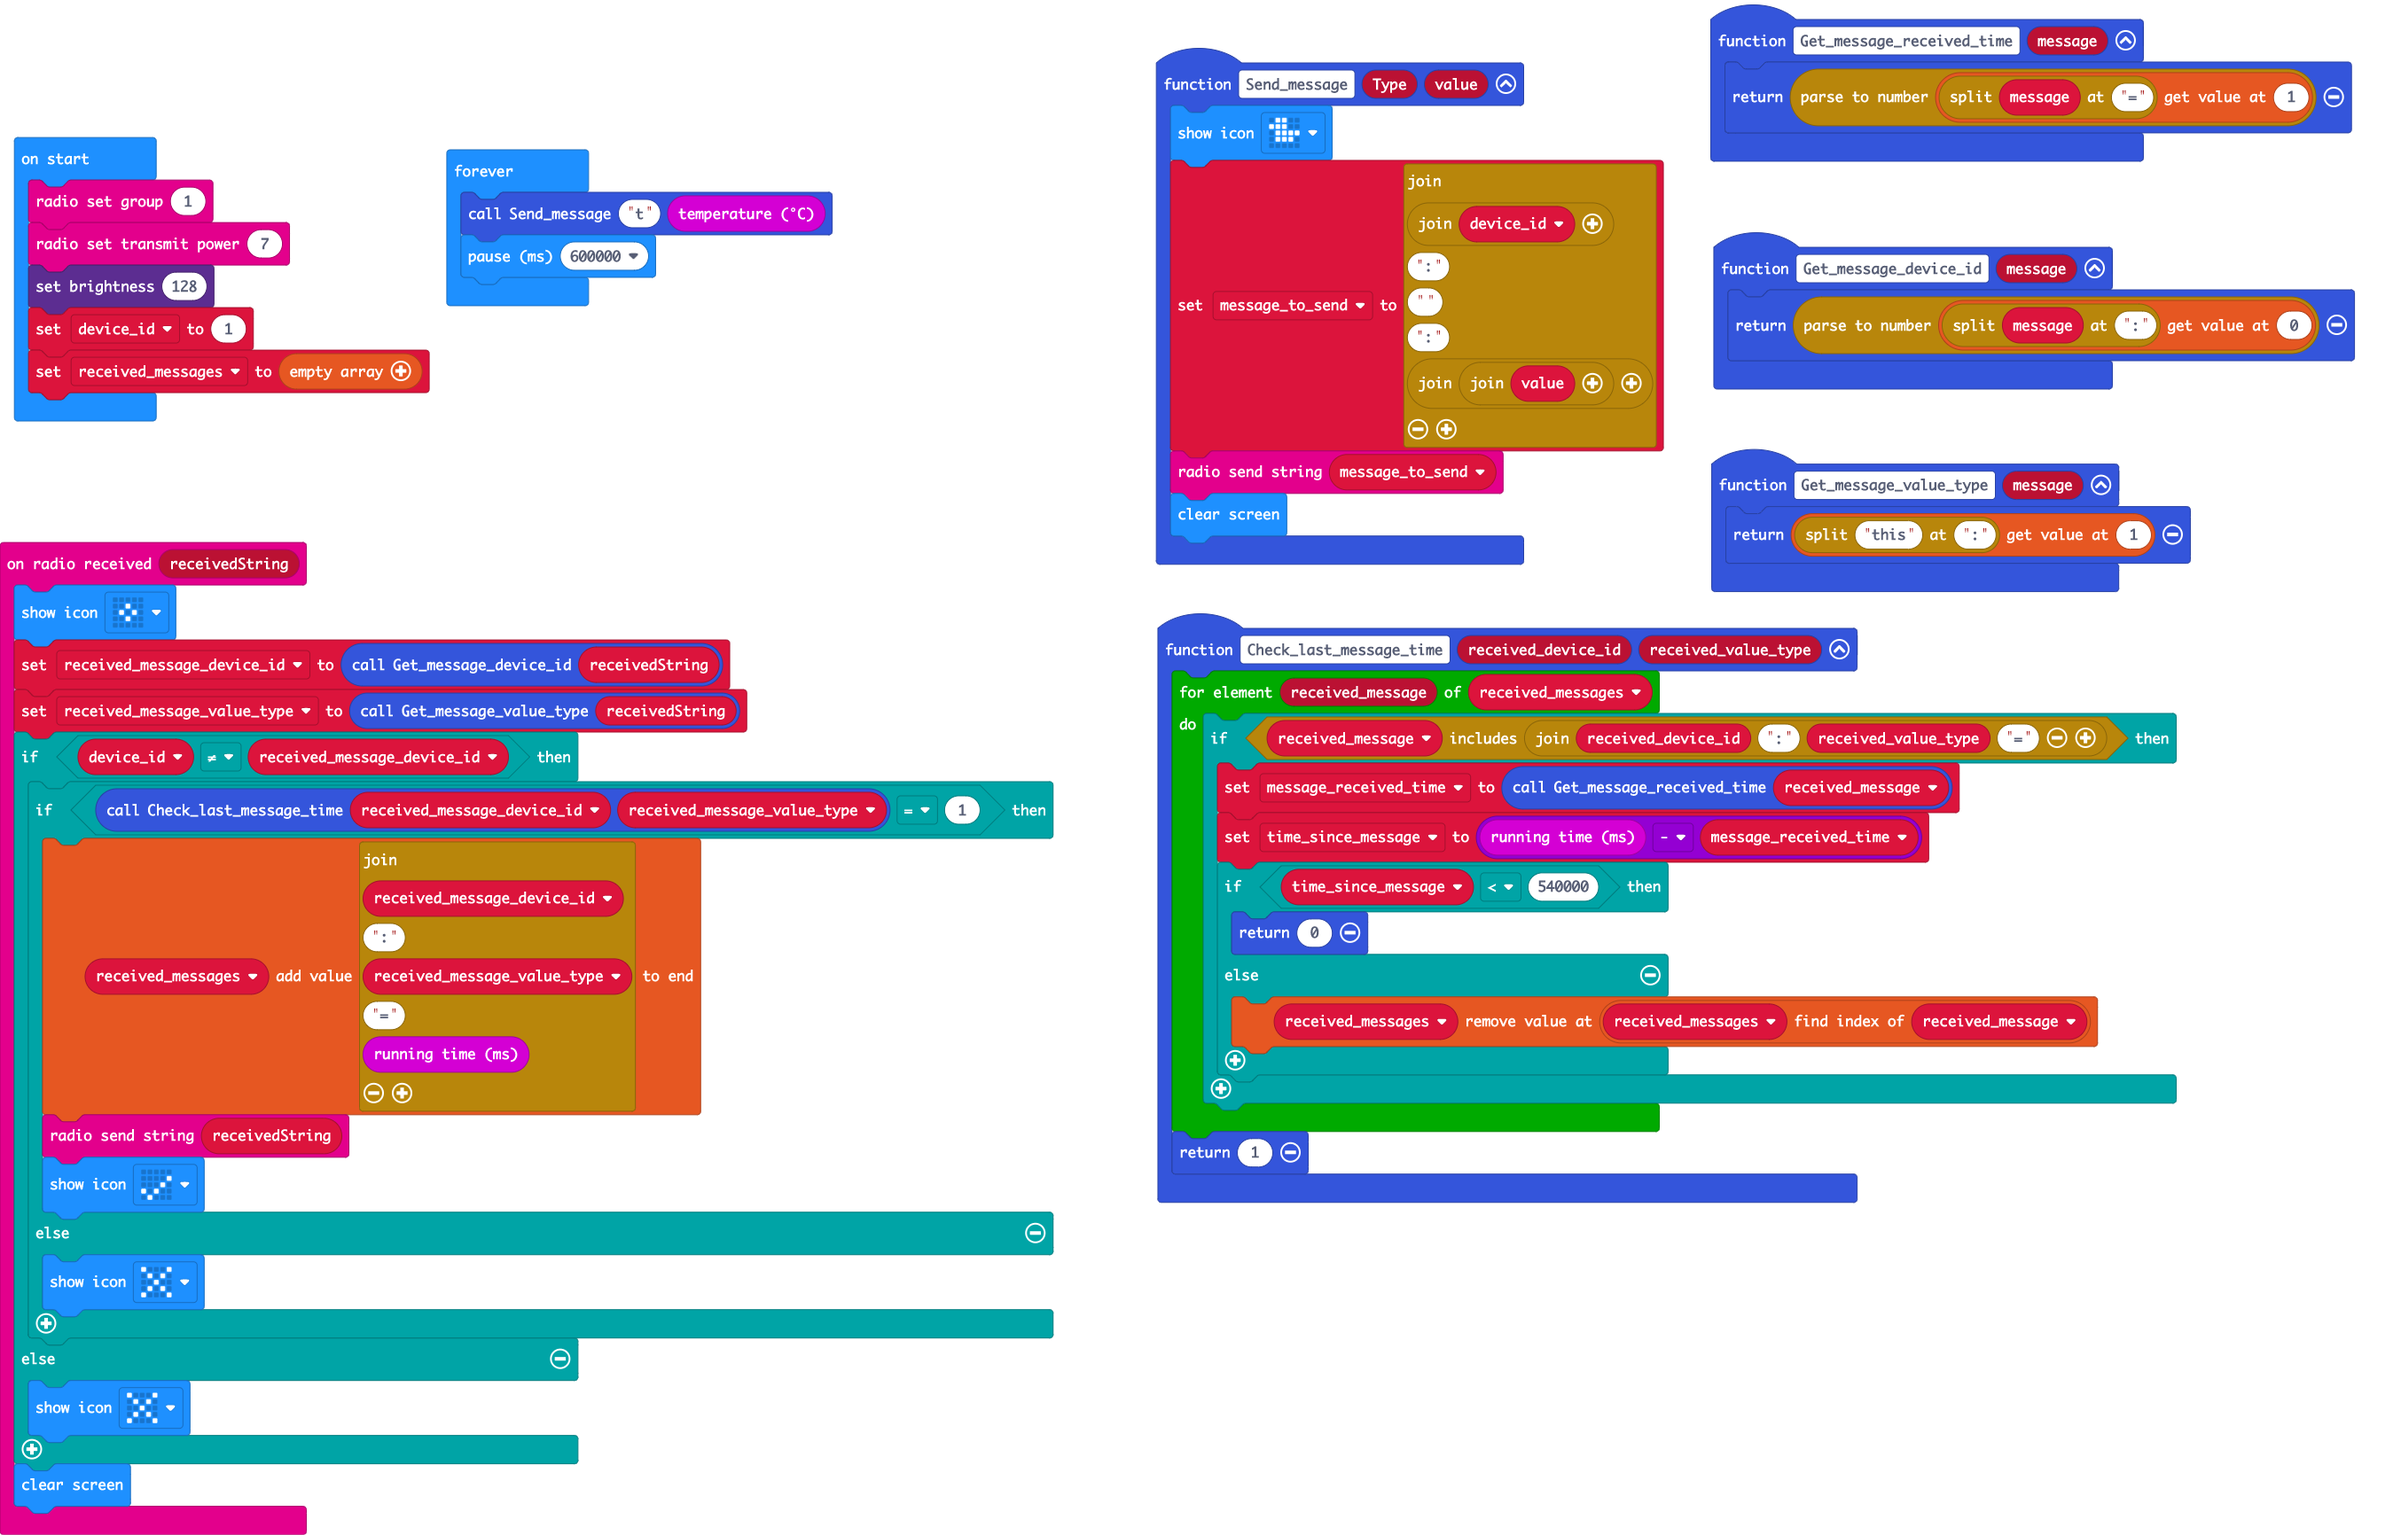
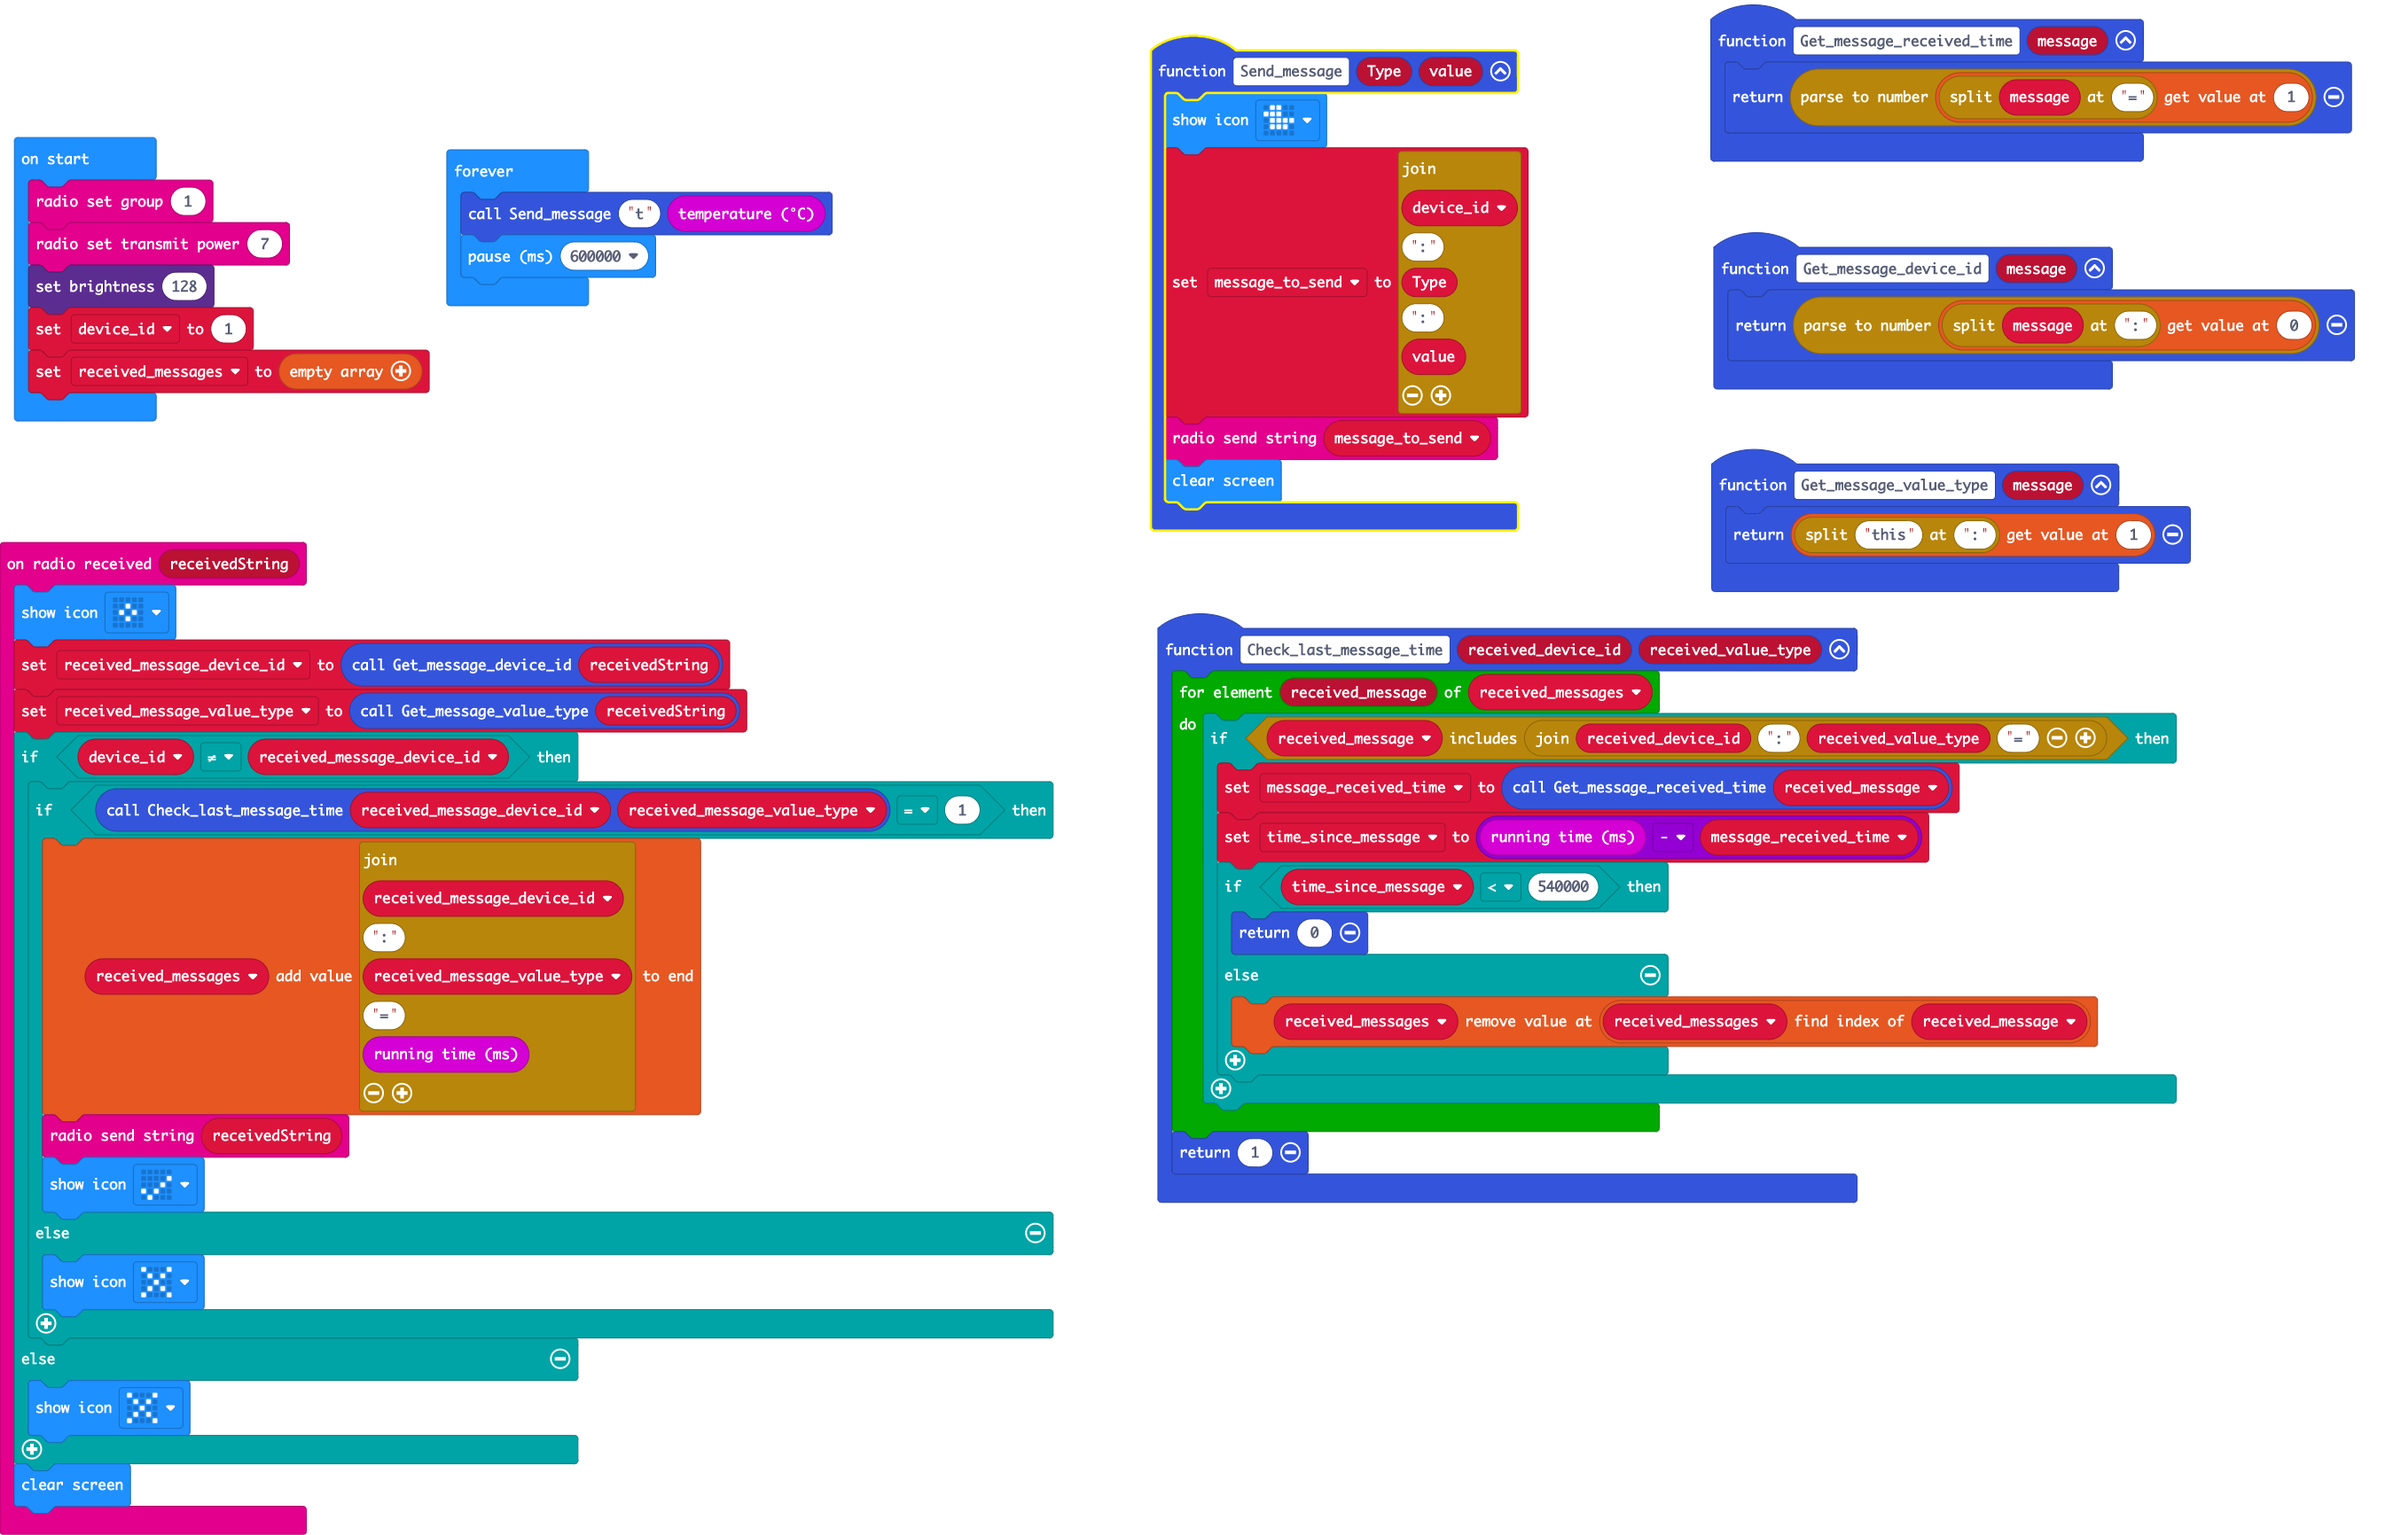
Fixing weirdness with joins

Changed region(s): [[0.4653, 0.0, 0.7134, 0.3741]]

diff --git a/main.ts b/main.ts
@@ -3,7 +3,7 @@ function Get_message_device_id (message: string) {
 }
 function Send_message (Type: string, value: number) {
     basic.showIcon(IconNames.Duck)
-    message_to_send = "" + device_id + ":" + "" + ":" + ("" + value)
+    message_to_send = "" + device_id + ":" + Type + ":" + value
     radio.sendString(message_to_send)
     basic.clearScreen()
 }
